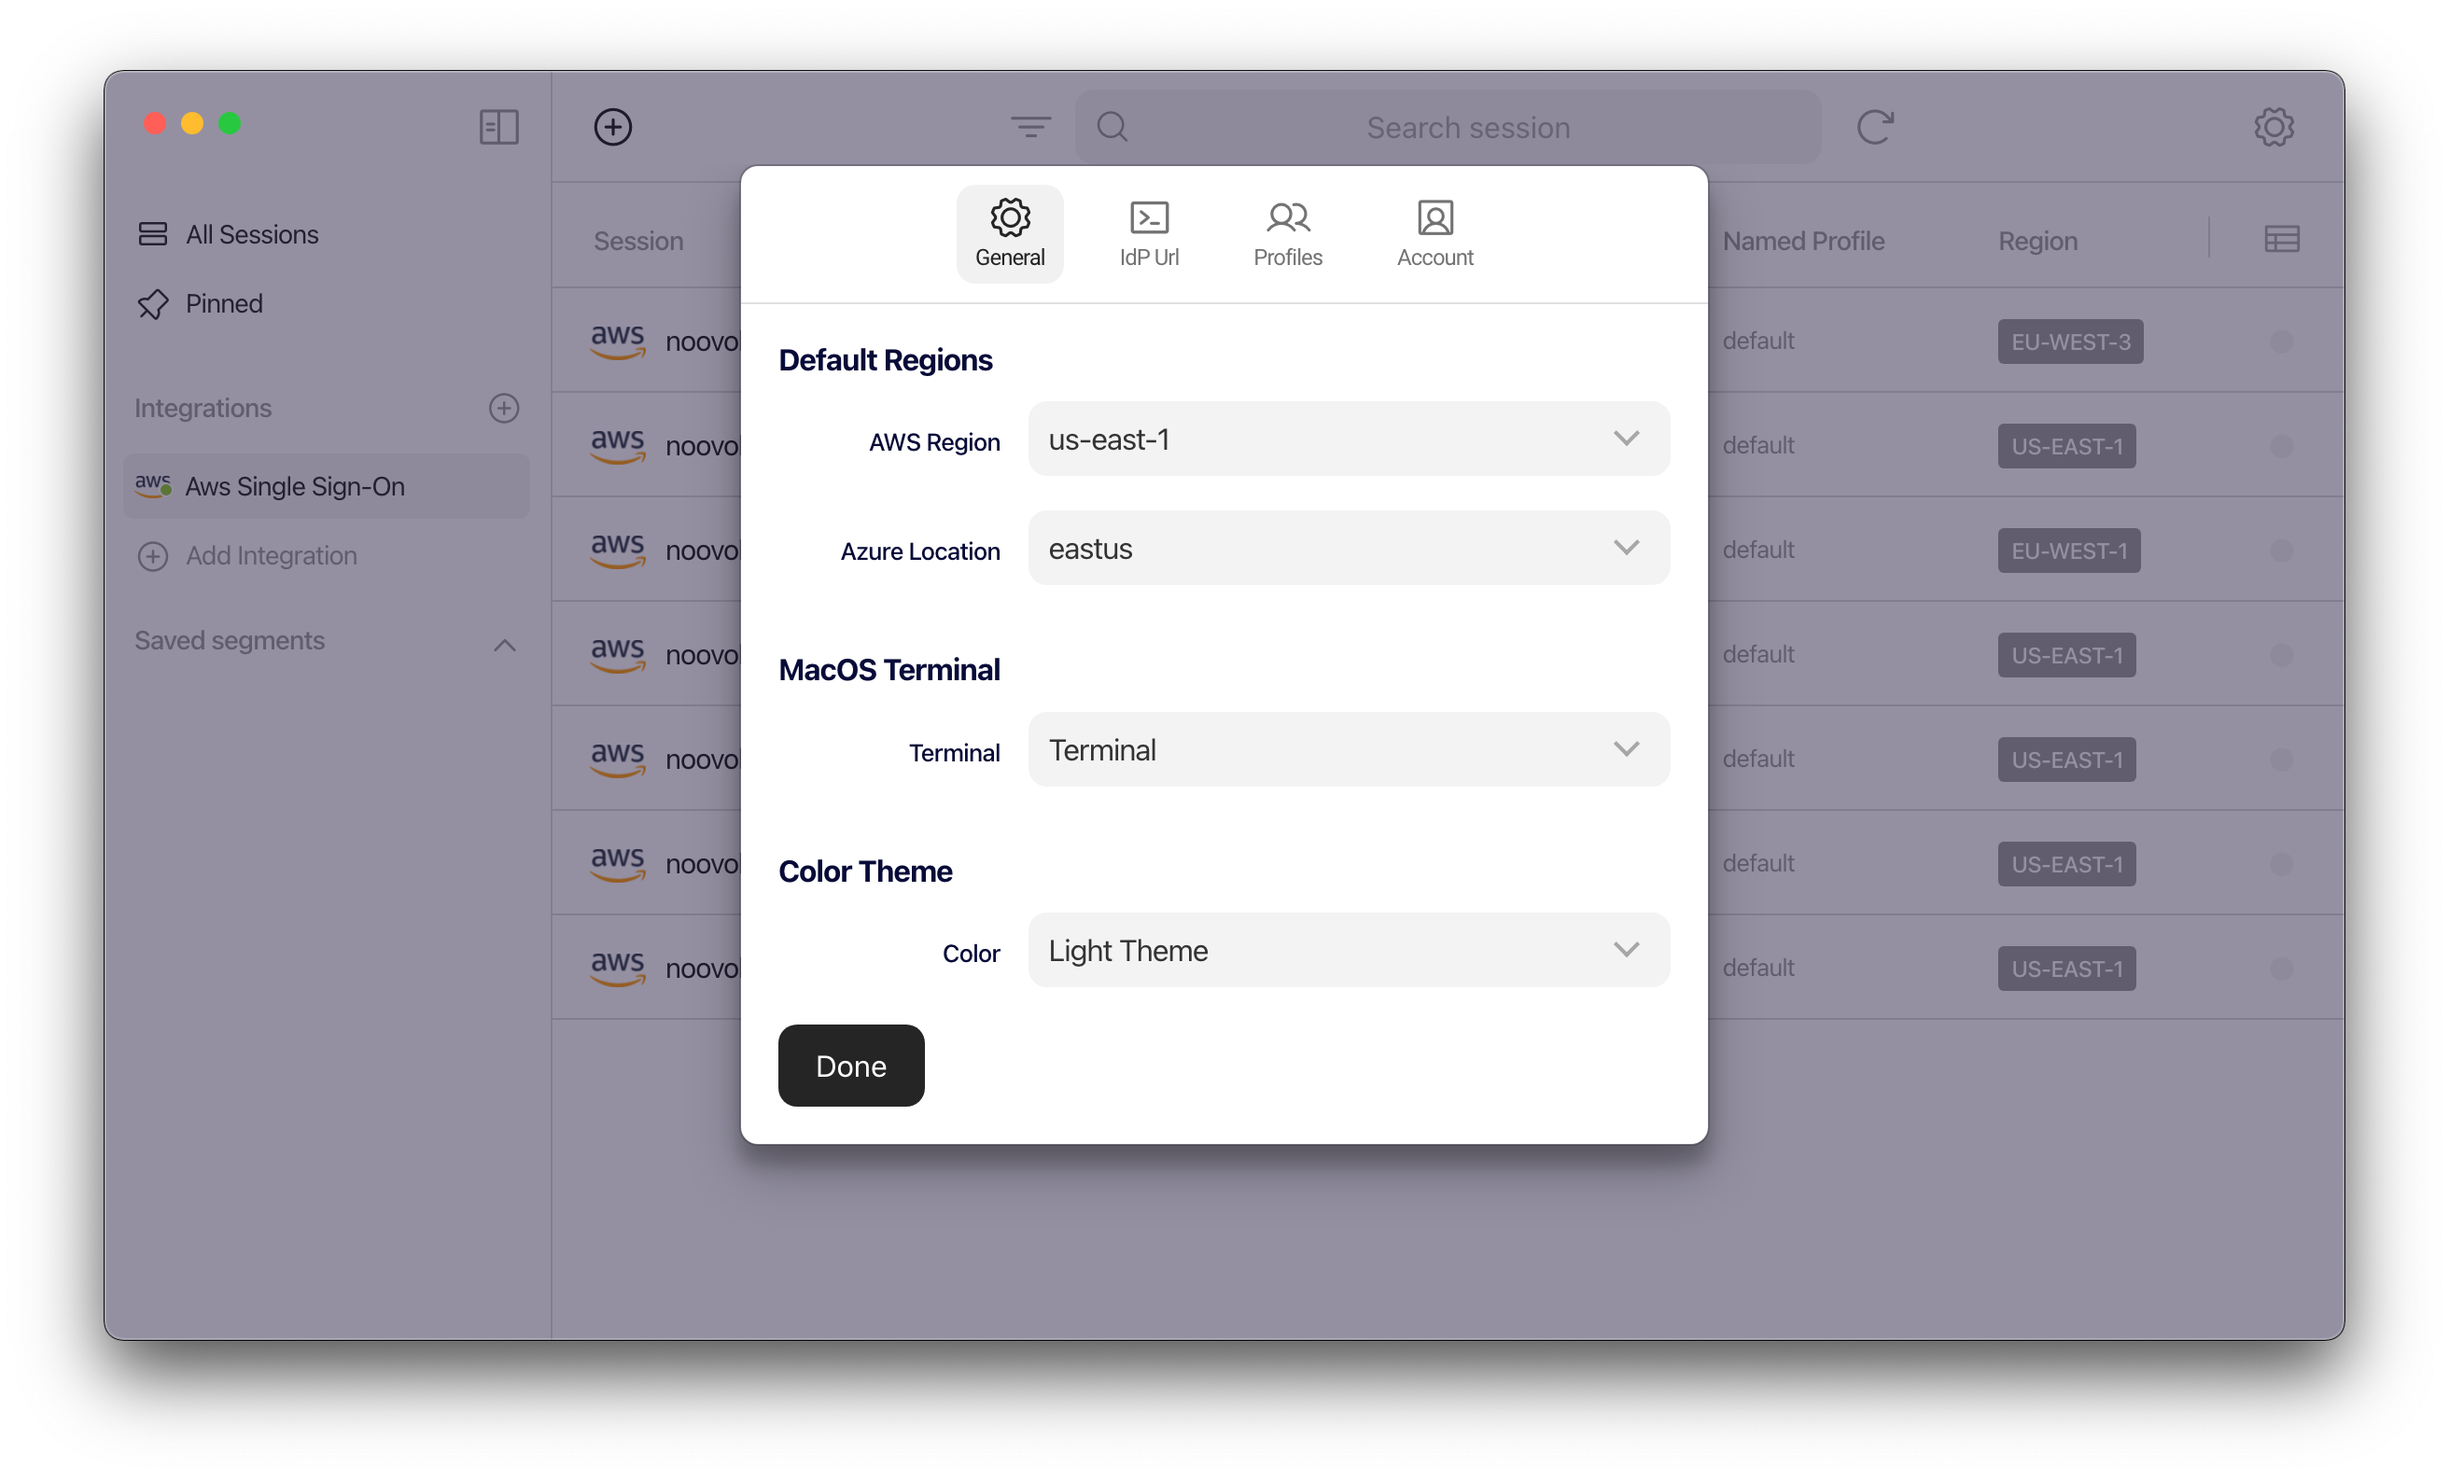
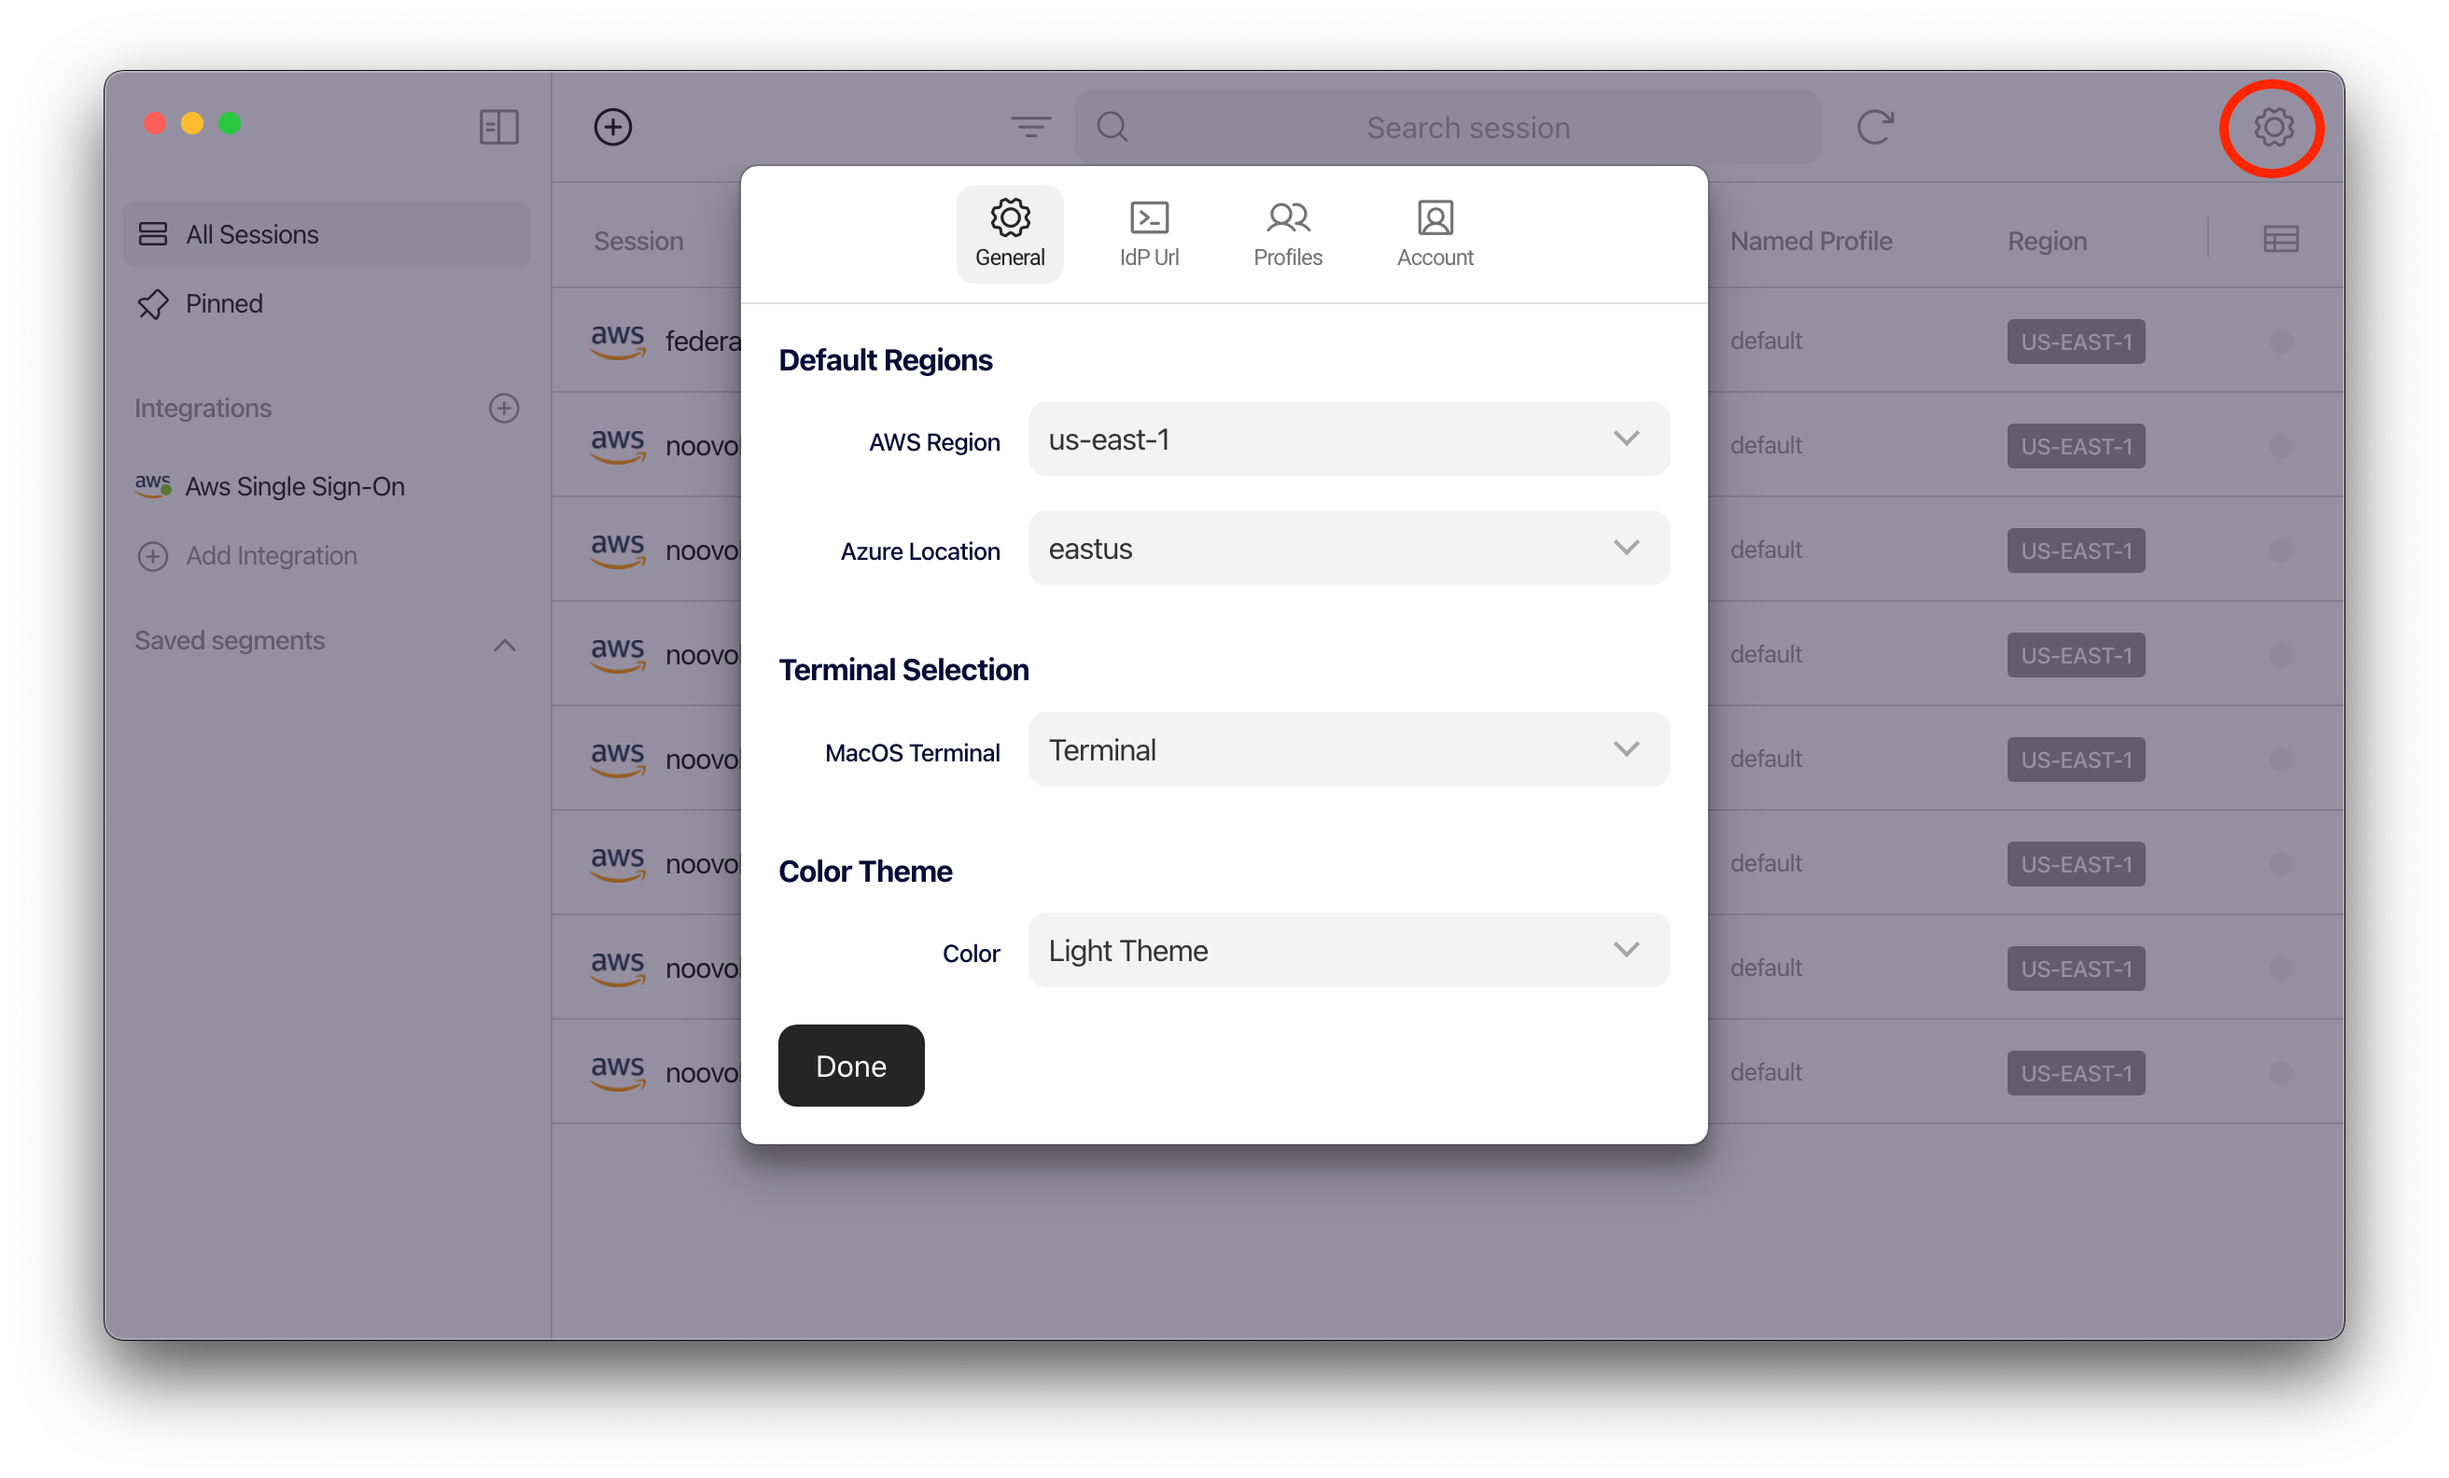
chore: removed ability to edit some ng-select forms via keyboard and fixed minor dark theme issues

diff --git a/src/app/components/integration-bar/integration-bar.component.html b/src/app/components/integration-bar/integration-bar.component.html
@@ -13,14 +13,14 @@
   <a class="close-modal" (click)="modalRef.hide();"><i class="moon-Close"></i></a>
   <h4>{{modifying === 1 ? 'Add New Integration' : 'Edit ' + selectedAwsSsoConfiguration.alias}}</h4>
 
-  <form [formGroup]="form">
+  <form [formGroup]="form" spellcheck="false">
     <div class="form-container">
 
       <div class="form-group">
         <div class="form-field">
           <div class="form-group">
             <label>Integration type</label>
-            <input  type="text" class="form-control blue-control btn-control" value="Aws Single Sign-On" readonly>
+            <input  type="text" class="form-control blue-control btn-control" disabled="true" value="Aws Single Sign-On" readonly>
           </div>
         </div>
       </div>
@@ -58,7 +58,7 @@
         <div class="form-field">
           <div class="form-group">
             <label>Auth. method</label>
-            <ng-select placeholder="Choose an Authentication method" formControlName="defaultBrowserOpening" bindLabel="type" bindValue="type" [clearable]="false" [items]="[{type: eConstants.inApp.toString() }, {type: eConstants.inBrowser.toString() }]" [(ngModel)]="selectedAwsSsoConfiguration.browserOpening"></ng-select>
+            <ng-select placeholder="Choose an Authentication method" formControlName="defaultBrowserOpening" bindLabel="type" bindValue="type" [clearable]="false" [searchable]="false" [items]="[{type: eConstants.inApp.toString() }, {type: eConstants.inBrowser.toString() }]" [(ngModel)]="selectedAwsSsoConfiguration.browserOpening"></ng-select>
           </div>
         </div>
       </div>

diff --git a/src/app/components/dialogs/options-dialog/options-dialog.component.html b/src/app/components/dialogs/options-dialog/options-dialog.component.html
@@ -30,13 +30,13 @@
 
 
           <ng-container *ngIf="appService.detectOs() === eConstants.mac">
-            <h2>MacOS Terminal</h2>
+            <h2>Terminal Selection</h2>
 
             <div class="form-container">
               <div class="form-group">
                 <div class="form-field">
-                  <label>Terminal</label>
-                  <ng-select formControlName="terminalSelect" bindLabel="terminal" bindValue="terminal" [clearable]="false" [items]="[{terminal: eConstants.macOsTerminal}, {terminal: eConstants.macOsIterm2}]" [(ngModel)]="selectedTerminal" [appendTo]="'body'"></ng-select>
+                  <label>MacOS Terminal</label>
+                  <ng-select formControlName="terminalSelect" bindLabel="terminal" bindValue="terminal" [clearable]="false" [searchable]="false" [items]="[{terminal: eConstants.macOsTerminal}, {terminal: eConstants.macOsIterm2}]" [(ngModel)]="selectedTerminal" [appendTo]="'body'"></ng-select>
                 </div>
               </div>
             </div>
@@ -51,6 +51,7 @@
                            bindLabel="colorTheme"
                            bindValue="colorTheme"
                            [clearable]="false"
+                           [searchable]="false"
                            [items]="[{colorTheme: eConstants.darkTheme}, {colorTheme: eConstants.lightTheme},{colorTheme: eConstants.systemDefaultTheme}]"
                            [(ngModel)]="selectedColorTheme"
                            (change)="setColorTheme(selectedColorTheme)"

diff --git a/src/app/components/dialogs/create-dialog/create-dialog.component.html b/src/app/components/dialogs/create-dialog/create-dialog.component.html
@@ -37,6 +37,7 @@
                          [bindValue]="'value'"
                          (change)="setAccessStrategy(provider);"
                          [clearable]="false"
+                         [searchable]="false"
                          [items]="[{value: eSessionType.awsIamRoleFederated, label: 'AWS IAM Role Federated'}, {value: eSessionType.awsIamUser, label: 'AWS IAM User'}, {value: eSessionType.awsIamRoleChained, label: 'AWS IAM Role Chained'}]"
                          placeholder="Select Session Strategy"
                          [addTag]="false"

diff --git a/src/assets/scss/dark-theme.scss b/src/assets/scss/dark-theme.scss
@@ -306,6 +306,8 @@ body.dark-theme {
 
   .search-bar input {
     background: unset!important;
+    color: $dark-main-text-color!important;
+    caret-color: $dark-main-text-color;
   }
 
   hr {
@@ -424,4 +426,7 @@ body.dark-theme {
     background-color: $dark-modal-background!important;
   }
 
+  .ng-dropdown-panel .ng-dropdown-panel-items .ng-option {
+    color: $dark-main-text-color!important;
+  }
 }
